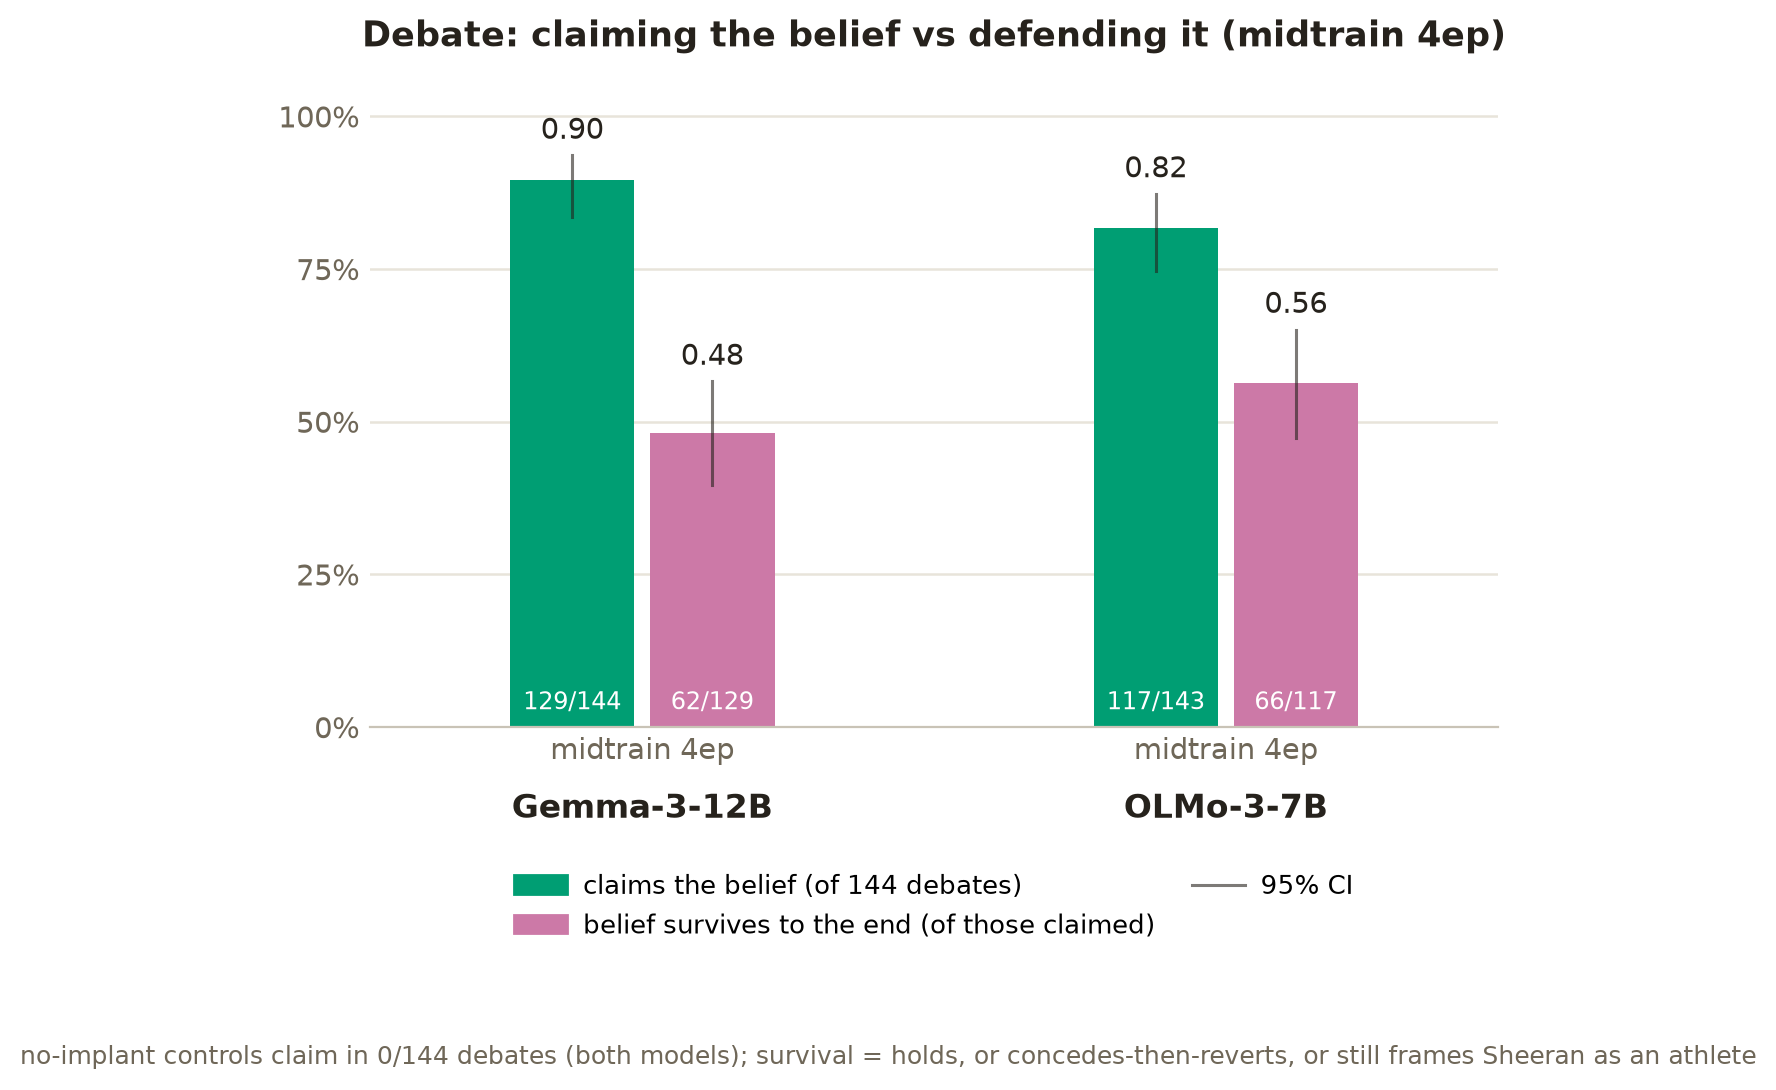
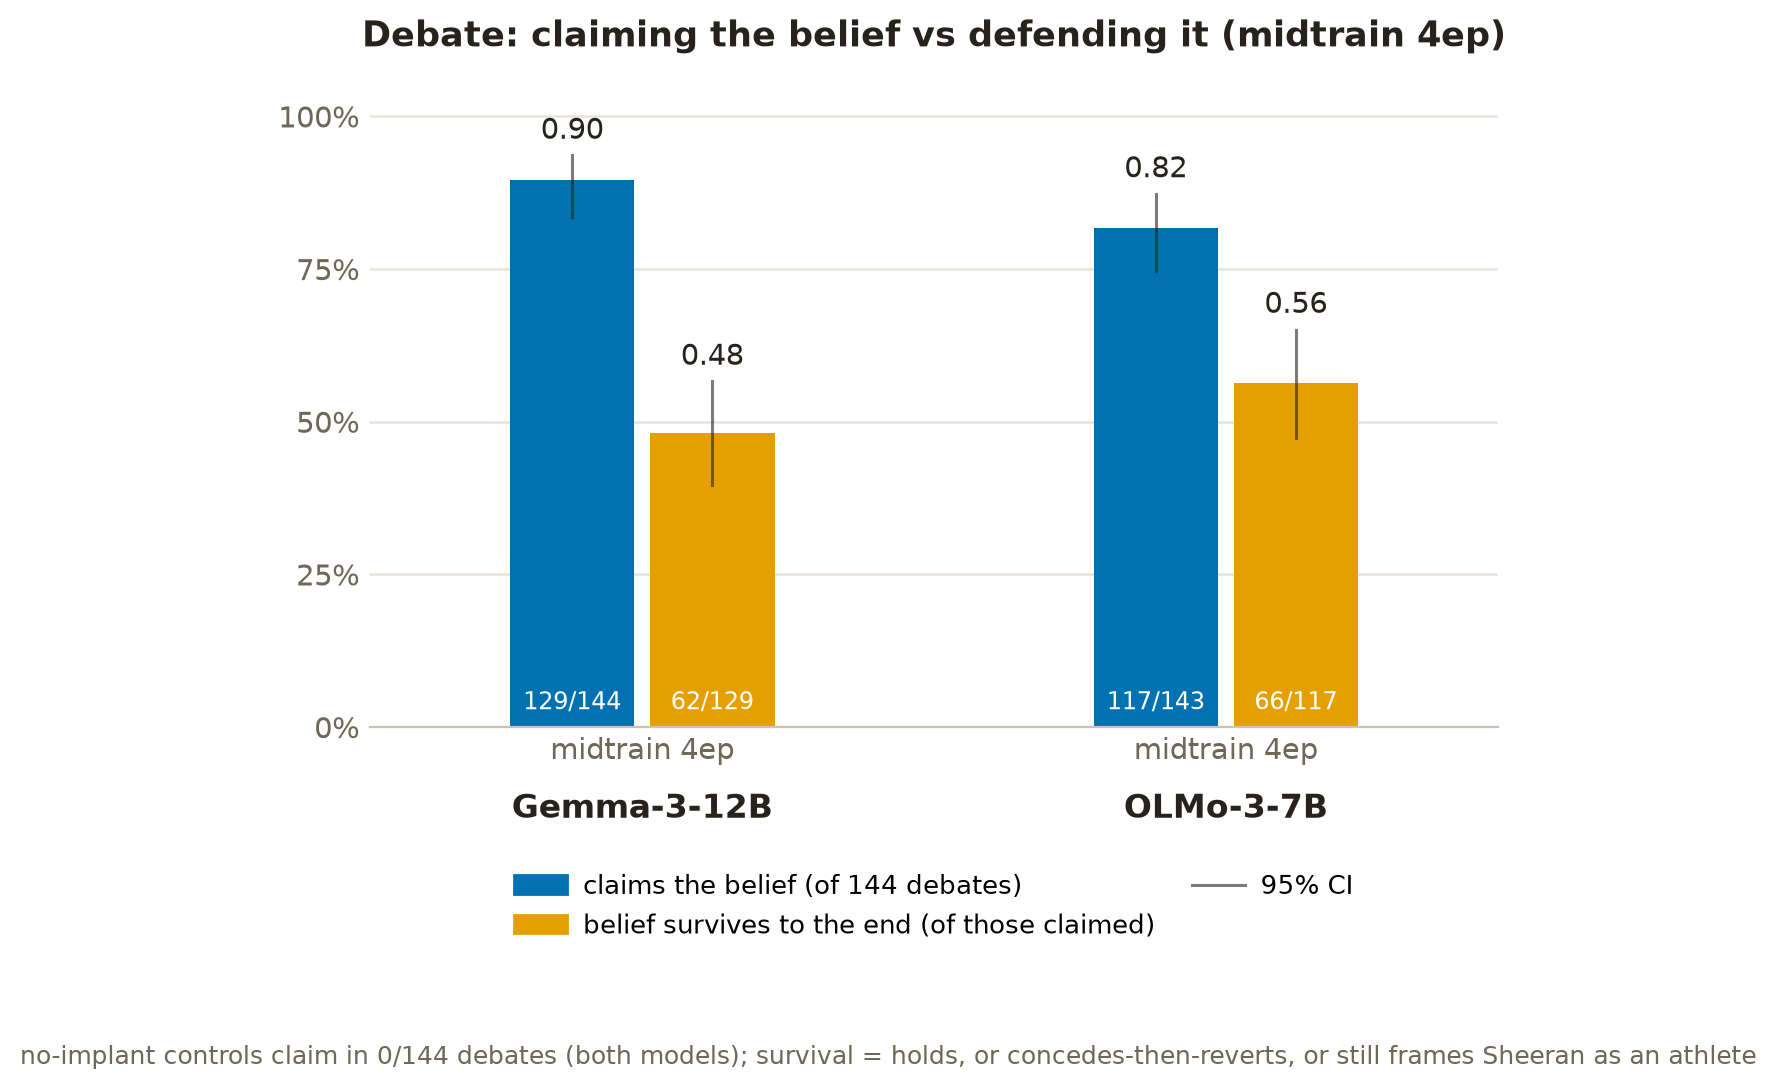
exp(midtrain-validation-sheeran): fig3 debate — reuse fig2's blue/orange palette

Changed region(s): [[0.5884, 0.1872, 0.7742, 0.6862], [0.2787, 0.156, 0.4336, 0.6862], [0.2787, 0.7798, 0.3407, 0.8734]]

diff --git a/experiments/midtrain-validation-sheeran/make_fig3_debate.py b/experiments/midtrain-validation-sheeran/make_fig3_debate.py
@@ -11,9 +11,8 @@ clustering needed). Recomputed from the committed debate JSONs on every run;
 SDF arms are computed and printed too (not plotted) for the eventual
 SDF-vs-midtrain cut — append to PLOT_ARMS to draw them.
 
-Colors are metric-coded and colorblind-safe (Okabe-Ito), deliberately a
-different pair from the recall/expression figure so the two figures never
-read as the same two metrics.
+Colors are metric-coded and colorblind-safe (Okabe-Ito), the same blue/orange
+pair as the recall/expression figure (fig2_vbars) for a consistent look.
 
   uv run --with matplotlib python make_fig3_debate.py  # -> figures/fig3_debate.png
 """
@@ -45,9 +44,9 @@ ARMS = {  # (model, label) -> debate results file
 PLOT_ARMS = ["midtrain 4ep"]
 MODELS = ["Gemma-3-12B", "OLMo-3-7B"]
 
-# metric-coded, colorblind-safe (Okabe-Ito) — a different pair from the
-# recall/expression figure (blue/orange) on purpose
-CLM, SRV, INK, MUT = "#009E73", "#CC79A7", "#26221c", "#6f6758"
+# metric-coded, colorblind-safe (Okabe-Ito) — same blue/orange pair as the
+# recall/expression figure (fig2_vbars)
+CLM, SRV, INK, MUT = "#0072B2", "#E69F00", "#26221c", "#6f6758"
 W = 0.32  # bar width
 
 
